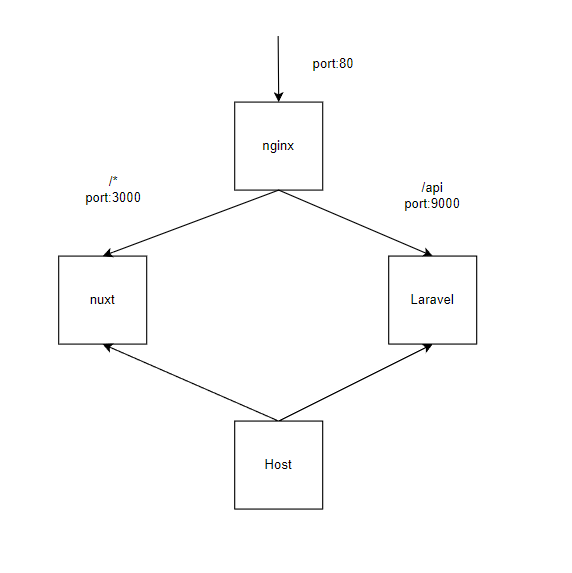
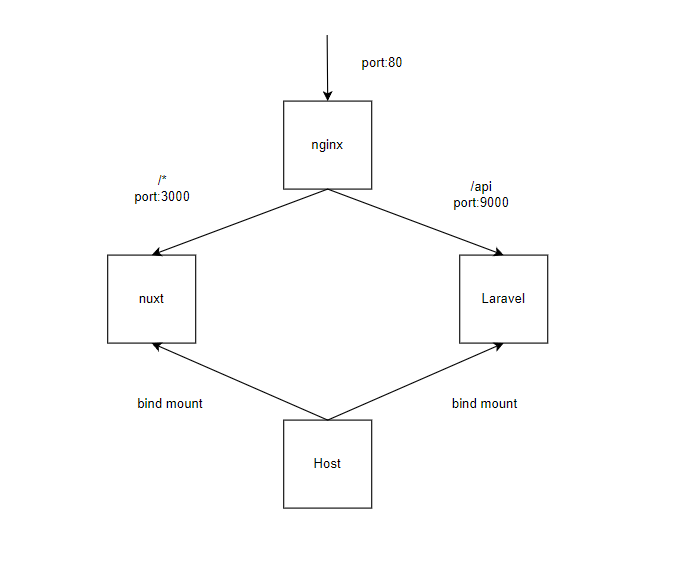
Readme.md 編集　＋　構成図微調整

diff --git a/README.md b/README.md
@@ -16,7 +16,7 @@
     $ git clone https://github.com/matsuihiroki0221/docker-laravel-vue-base.git
     $ sudo chmod -R 777 .
 
-    // 以下のdockerを入力し、イメージのビルド、コンテナを立ち上げる
+    // 以下のdockerコマンドを入力し、イメージのビルドと、コンテナを立ち上げる
     $ docker compose build
     $ docker compose up -d
     ```
@@ -41,4 +41,16 @@
     // composerを用いてパッケージをインストールする
     $ composer install
     ```
+- 不具合  
+    - `docker compose exec front`でコンテナに入れなかった場合  
+    docker-compose.ymlファイルのfrontのサービスの以下の箇所をコメントアウトして、再度`dokcer compose up -d`を行う 
+        ```diff
+        - command: npm run dev
+        + # command: npm run dev
+        ```
+
+    - Laraveの構築が完了して、`http://localhost/api`にアクセスしてもな画面が表示されない場合
+        ```sh
+        $ sudo chmod -R 777 .
+        ```  
 <br>
